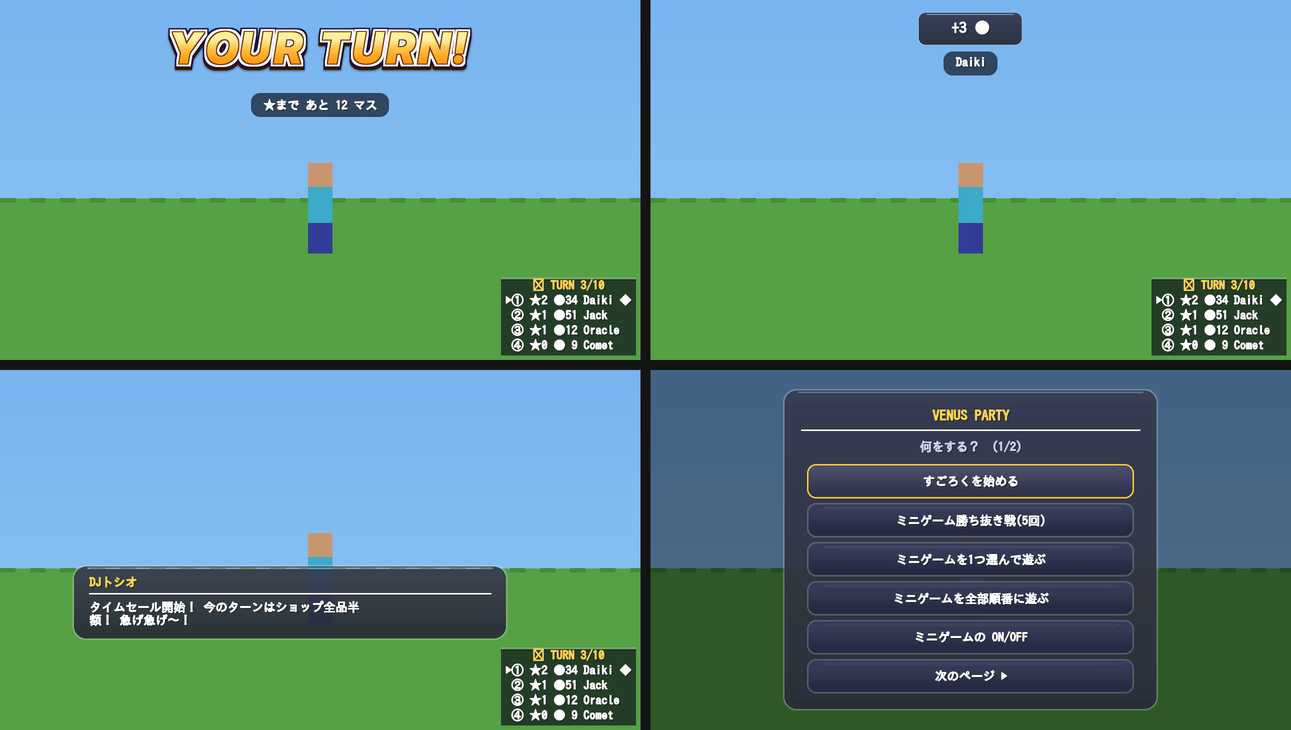
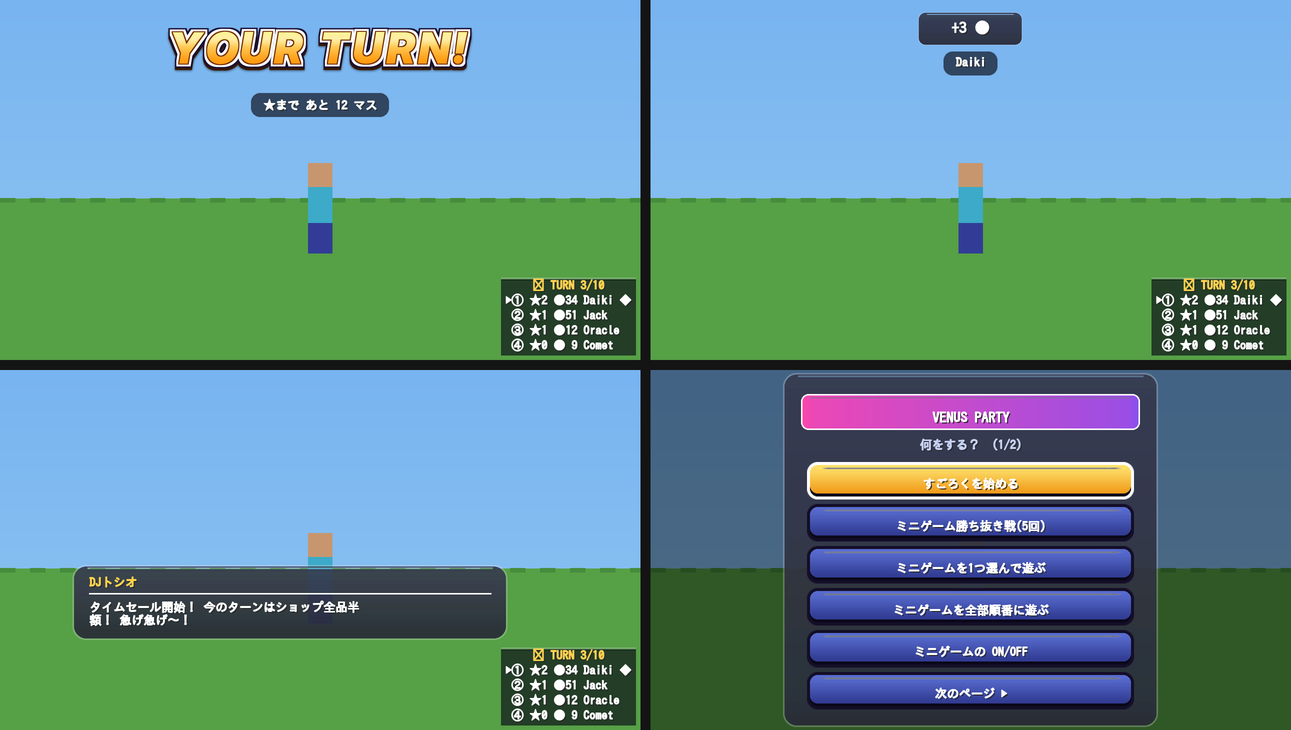
v33: 持ち物の表示を消す、アイテムの絵文字を小さく、メニューの色を戻す
Claude-Session: https://claude.ai/code/session_01B2FgibtyYDajcCp47YzWMQ

Changed region(s): [[0.5887, 0.5123, 0.8985, 1.0]]

diff --git a/tools/mpl_ui.py b/tools/mpl_ui.py
@@ -208,14 +208,27 @@ if not os.environ.get('MPL_UI_JSON_ONLY'):
     nine('card', im.resize((96, 96), Image.LANCZOS), [12, 12, 12, 12], 2)
     # ボタン(ふつう・選択中・押した)
     # ボタン: ふだん = ガラス + うすい白のふち / 選択中 = 少し明るく + 金のふち / 押した = 暗く + 金のふち(少し下へ)
-    for name, top, bot, stroke, dy in [('btn', (44, 50, 84), (26, 30, 54), (255, 255, 255, 60), 0), ('btn_hover', (62, 70, 112), (36, 42, 74), (255, 200, 60, 255), 0), ('btn_press', (24, 28, 50), (18, 20, 38), (255, 200, 60, 255), 1)]:
+    # ボタン: ふだん = あざやかな青 / 選択中 = 金 / 押した = こい金(少し下へ)。パーティらしい色
+    for name, top, bot, border in [('btn', (90, 110, 210), (45, 55, 140), (20, 14, 40)), ('btn_hover', (255, 226, 110), (240, 150, 20), (255, 255, 255)), ('btn_press', (220, 140, 20), (170, 90, 0), (255, 255, 255))]:
         S = 4; w, h = 48 * S, 24 * S
         im = Image.new('RGBA', (w, h)); d = ImageDraw.Draw(im)
-        d.rounded_rectangle((0, dy * S, w - 1, h - 1), 6 * S, fill=stroke)
-        mk = Image.new('L', (w, h)); ImageDraw.Draw(mk).rounded_rectangle((S, S + dy * S, w - 1 - S, h - 1 - S), 5 * S, fill=240)
-        im.paste(grad(w, h, top, bot), (0, 0), mk)
-        if not dy: ImageDraw.Draw(im).line([(7 * S, 3 * S), (w - 7 * S, 3 * S)], fill=(255, 255, 255, 45), width=S)
+        d.rounded_rectangle((0, 0, w - 1, h - 1), 7 * S, fill=border + (255,))
+        mk = Image.new('L', (w, h)); ImageDraw.Draw(mk).rounded_rectangle((2 * S, 2 * S, w - 1 - 2 * S, h - 1 - 2 * S - (0 if 'press' in name else 2 * S)), 5 * S, fill=255)
+        im.paste((10, 8, 25, 255), (0, 2 * S), mk)
+        im.paste(grad(w, h, top, bot), (0, 2 * S if 'press' in name else 0), mk)
+        ImageDraw.Draw(im).line([(7 * S, 4 * S), (w - 7 * S, 4 * S)], fill=(255, 255, 255, 110), width=S)
         nine(name, im.resize((w // 2, h // 2), Image.LANCZOS), [6, 6, 6, 6], 2)
+    # メニューの見出しの帯: ピンク→むらさきのあざやかな帯 + 白いふち
+    S = 4; w, h = 96 * S, 28 * S
+    im = Image.new('RGBA', (w, h)); d = ImageDraw.Draw(im)
+    d.rounded_rectangle((0, 0, w - 1, h - 1), 10 * S, fill=(255, 255, 255, 255))
+    g = Image.new('RGBA', (w, h))
+    for x in range(w):
+        t = x / (w - 1); ImageDraw.Draw(g).line([(x, 0), (x, h)], fill=(round(255 - 120 * t), round(70 + 10 * t), round(170 + 70 * t), 255))
+    mk = Image.new('L', (w, h)); ImageDraw.Draw(mk).rounded_rectangle((2 * S, 2 * S, w - 1 - 2 * S, h - 1 - 2 * S), 8 * S, fill=255)
+    im.paste(g, (0, 0), mk)
+    d.line([(12 * S, 5 * S), (w - 12 * S, 5 * S)], fill=(255, 255, 255, 90), width=S)
+    nine('head', im.resize((w // 2, h // 2), Image.LANCZOS), [8, 6, 8, 6], 4)
     # 見出しの下の細い線
     ln = Image.new('RGBA', (64, 2)); ImageDraw.Draw(ln).line([(0, 0), (63, 0)], fill=(255, 255, 255, 90), width=1); ln.save(os.path.join(TEX, 'line.png'))
     # アクションバー・説明の文字の背景: 暗い半透明の角丸だけ(ふちなし)
@@ -306,6 +319,7 @@ for path in ('hud_title_text/title_frame/title',):
     hide(path, [vis(hasnt(BMARK, '#text'))])
 for path in ('hud_title_text/title_frame/title_background', 'hud_title_text/subtitle_frame/subtitle', 'hud_title_text/subtitle_frame/subtitle_background'):
     hide(path, [col(T), vis(hasnt(BMARK))])
+hud['item_name_text'] = {'ignored': True}  # アイテムを持ったときの名前・ロックなどの表示を出さない
 hud['hud_actionbar_text'] = {'texture': 'textures/ui/mpl/toast', 'size': ['100%c + 22px', '100%c + 10px']}
 json.dump(hud, open(os.path.join(UI, 'hud_screen.json'), 'w', encoding='utf-8'), ensure_ascii=False, indent=1)
 
@@ -322,8 +336,8 @@ json.dump(sb, open(os.path.join(UI, 'scoreboards.json'), 'w', encoding='utf-8'),
 sf = json.load(open(os.path.join(UI, 'server_form.json'), encoding='utf-8'))
 TT = '#title_text'
 c2 = lambda name, over=None: dict({'binding_name': name, 'binding_type': 'collection', 'binding_collection_name': 'form_buttons'}, **({'binding_name_override': over} if over else {}))
-sf['mpl_btn'] = {'type': 'panel', 'size': ['100%', 26], 'controls': [{'b@common.button': {
-    '$pressed_button_name': 'button.form_button_click', 'size': ['100% - 8px', 23], 'anchor_from': 'center', 'anchor_to': 'center',
+sf['mpl_btn'] = {'type': 'panel', 'size': ['100%', 28], 'controls': [{'b@common.button': {
+    '$pressed_button_name': 'button.form_button_click', 'size': ['100% - 8px', 25], 'anchor_from': 'center', 'anchor_to': 'center',
     'bindings': [{'binding_type': 'collection_details', 'binding_collection_name': 'form_buttons'}],
     'controls': [
         {'default': {'type': 'image', 'texture': 'textures/ui/mpl/btn', 'layer': 1}},
@@ -343,8 +357,8 @@ sf['mpl_form'] = {
         {'card': {'type': 'image', 'texture': 'textures/ui/mpl/card', 'size': [250, '100%c + 20px'], 'layer': 1, 'anims': ['@server_form.mpl_form_in'], 'controls': [{'st': {
             'type': 'stack_panel', 'orientation': 'vertical', 'size': [226, '100%c'], 'controls': [
                 {'pt': {'type': 'panel', 'size': ['100%', 4]}},
-                {'head': {'type': 'label', 'text': TT, 'size': ['100%', 'default'], 'text_alignment': 'center', 'layer': 3, 'shadow': True, 'localize': False, 'font_scale_factor': 1.2, 'color': [1, 0.82, 0.3], 'bindings': [{'binding_name': TT}]}},
-                {'g0': {'type': 'panel', 'size': ['100%', 4]}}, {'ln': {'type': 'image', 'texture': 'textures/ui/mpl/line', 'size': ['100%', 1], 'layer': 3}},
+                {'head': {'type': 'image', 'texture': 'textures/ui/mpl/head', 'size': ['100%', 24], 'layer': 3, 'controls': [
+                    {'t': {'type': 'label', 'text': TT, 'size': ['100%', 'default'], 'text_alignment': 'center', 'layer': 4, 'shadow': True, 'localize': False, 'font_scale_factor': 1.2, 'color': [1, 1, 1], 'bindings': [{'binding_name': TT}]}}]}},
                 {'pad0': {'type': 'panel', 'size': ['100%', 6]}},
                 {'body': {'type': 'label', 'text': '#form_text', 'property_bag': {'#font_type': 'classic'}, 'font_type': '#font_type',  'size': ['100%', 'default'], 'text_alignment': 'center', 'layer': 2, 'shadow': True, 'localize': False, 'color': [0.78, 0.82, 0.95],
                           'bindings': [{'binding_name': '#form_text'}, {'binding_type': 'view', 'source_property_name': '#font_type', 'target_property_name': '#font_type'}]}},

diff --git a/tools/mpl_mockup.py b/tools/mpl_mockup.py
@@ -68,13 +68,12 @@ def scene_dj():
 def scene_menu():
     im = bg(); sh = Image.new('RGBA', im.size, (0, 0, 0, 115)); im.alpha_composite(sh); d = ImageDraw.Draw(im)
     btns = ["すごろくを始める", "ミニゲーム勝ち抜き戦(5回)", "ミニゲームを1つ選んで遊ぶ", "ミニゲームを全部順番に遊ぶ", "ミニゲームの ON/OFF", "次のページ ▶"]
-    h = 4 + 8 * 1.2 + 4 + 1 + 6 + 8 + 6 + 26 * len(btns) + 20; y0 = GH / 2 - h / 2
+    h = 4 + 24 + 6 + 8 + 6 + 28 * len(btns) + 20; y0 = GH / 2 - h / 2
     paste(im, nine('card', 250, h, (12, 12, 12, 12)), GW / 2 - 125, y0)
-    y = y0 + 10 + 4; text(d, (GW / 2, y), "VENUS PARTY", 1.2, (255, 210, 77)); y += 8 * 1.2 + 4
-    d.line([((GW / 2 - 113) * K, y * K), ((GW / 2 + 113) * K, y * K)], fill=(255, 255, 255, 90), width=K); y += 7
+    y = y0 + 10 + 4; paste(im, nine('head', 226, 24), GW / 2 - 113, y); text(d, (GW / 2, y + 12), "VENUS PARTY", 1.2, (255, 255, 255)); y += 24 + 6
     text(d, (GW / 2, y), "何をする？  (1/2)", 1, (199, 209, 242)); y += 14
     for i, b in enumerate(btns):
-        paste(im, nine('btn_hover' if i == 0 else 'btn', 218, 23, (6, 6, 6, 6)), GW / 2 - 109, y + 1.5); text(d, (GW / 2, y + 9), b); y += 26
+        paste(im, nine('btn_hover' if i == 0 else 'btn', 218, 25, (6, 6, 6, 6)), GW / 2 - 109, y + 1.5); text(d, (GW / 2, y + 12), b); y += 28
     return im
 os.makedirs(os.path.join(ROOT, 'mpl'), exist_ok=True)
 sc = [scene_turn(), scene_ribbon(), scene_dj(), scene_menu()]

diff --git a/HANDOFF.md b/HANDOFF.md
@@ -273,3 +273,8 @@
 
 ## v32
 - 帯(+3コインなど)の左の縦棒(色のしるし)をやめた。左右対称の黒いガラス帯だけにした。未確認。
+
+## v33
+- アイテムを持ったときの名前・ロックなどの表示を消した(hud の item_name_text を ignored)。
+- アイテムの絵文字(glyph_E2)を小さくした(16のマスの中に 10 の大きさ、下寄せ)。
+- メニューをパーティらしい色に戻した: ボタンは青 / 選択中は金、見出しはピンク→むらさきの帯 + 白い文字。未確認。
